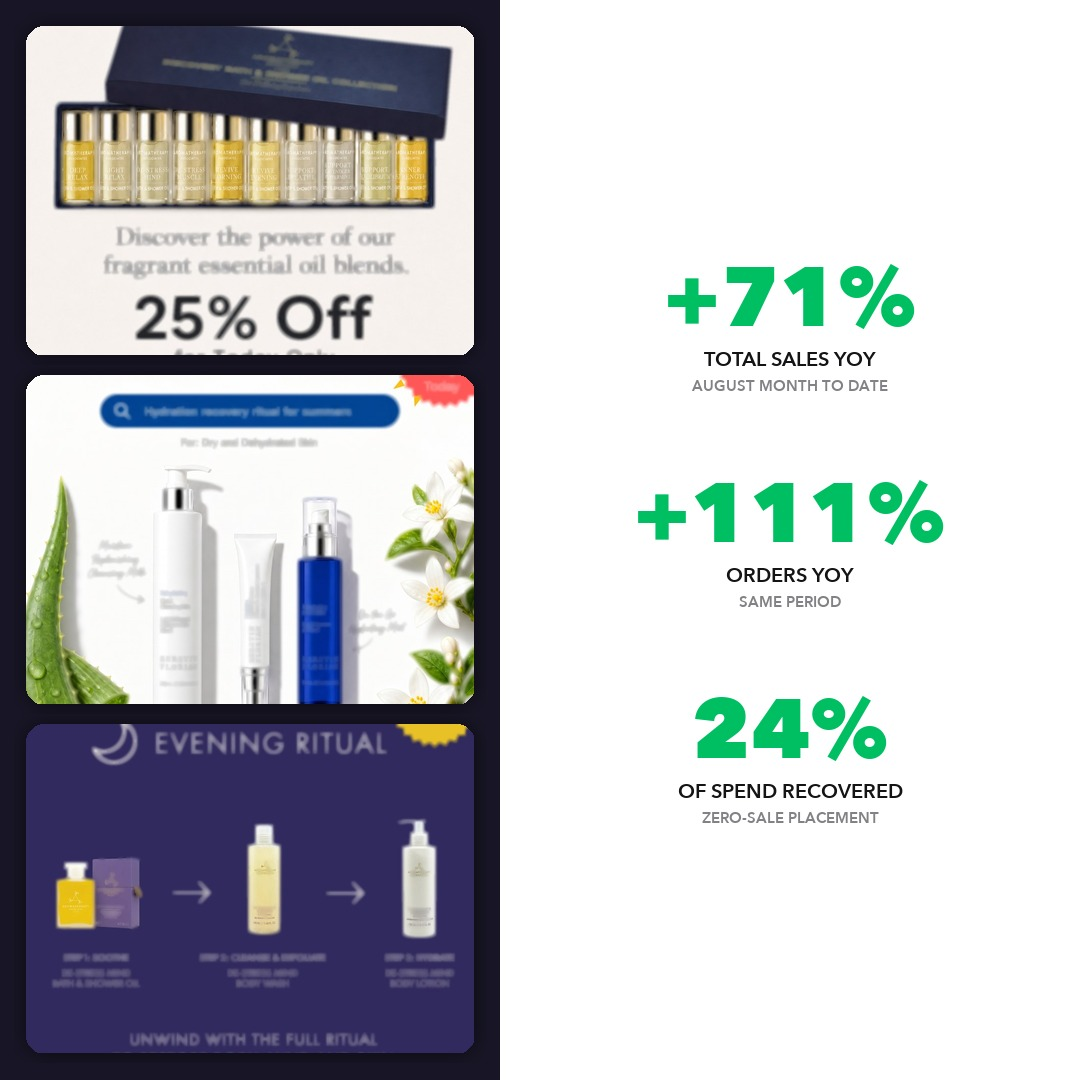
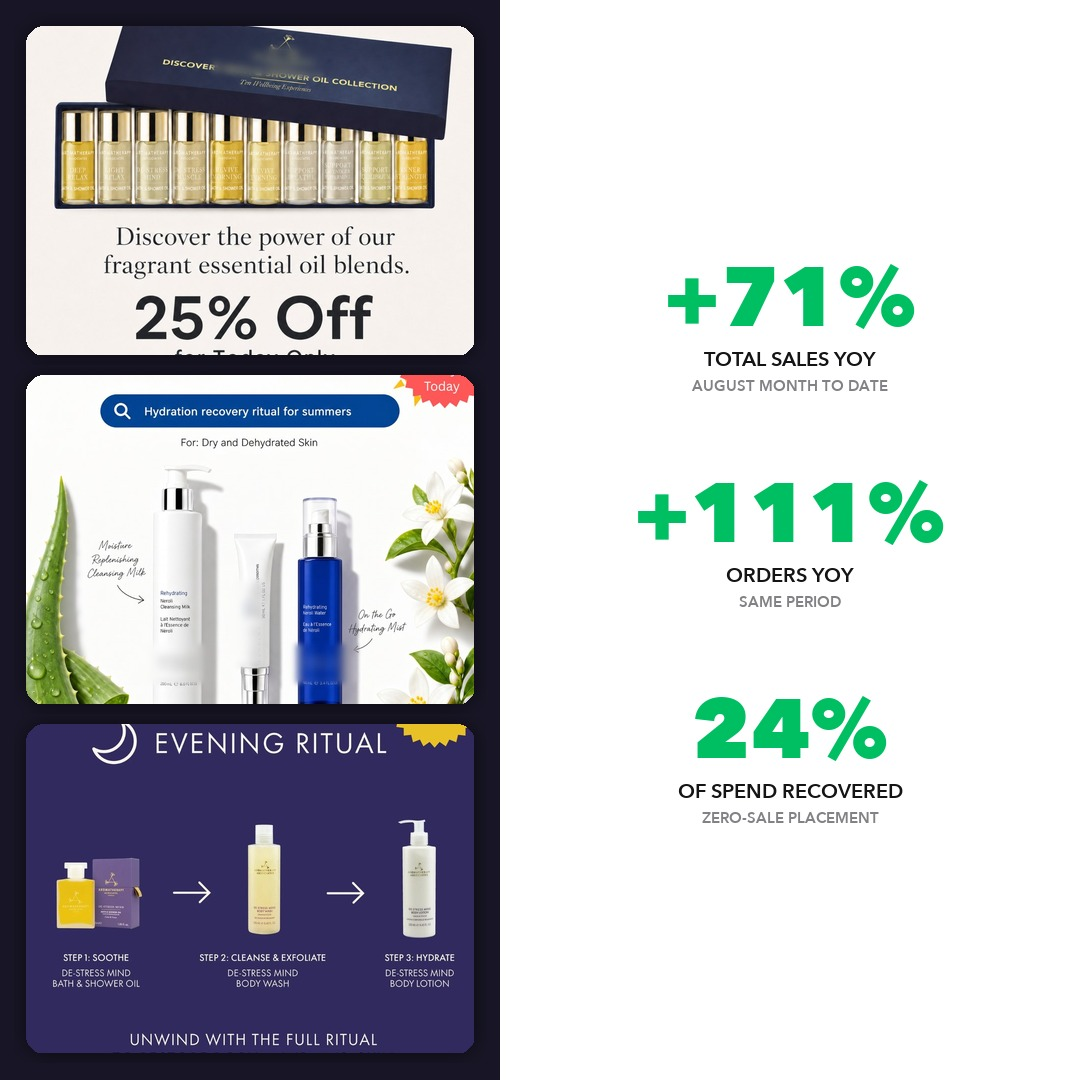
fix(case-studies): hide the brand name only, not every word in the ad
The last two passes obscured all lettering, which softened the headlines,
ingredient lists and offer copy — the parts that make these read as real ads.
Only the brand identifier needs to be unreadable.

Dropped the global text mask entirely. Now nine explicit regions across the six
creatives: the two header wordmarks are replaced with sampled background, and
seven product marks (three bottle labels, an eye-cream label, a carton wordmark,
a diffuser emboss, a gift-box lid) get a feathered blur, since they sit on
curved or textured surfaces where a flat fill would show.

Everything else stays sharp: "Lait Nettoyant à l'Essence de Néroli", the actives
list, "Discover the power of our fragrant essential oil blends", the 25% offer
badges, "Evening Ritual".

The first attempt at the bottle labels was ~100px high and left two of them
readable; verified at 6x zoom this time rather than at thumbnail size.

diff --git a/work/wellness-brands.html b/work/wellness-brands.html
@@ -227,7 +227,7 @@
       <p class="cs-hero-desc">Two premium wellness brands, run under one retainer. Both looked healthy. Click-through rates were strong, add-to-carts were climbing, clicks cost under a dollar. Underneath, about a quarter of the monthly budget was going to a placement that had never produced a single sale.</p>
     </div>
     <div class="cs-hero-img">
-      <img src="/assets/wellness-brands-cover.jpg?v=640d498c" alt="Premium wellness brands Meta ads placement audit case study" loading="eager">
+      <img src="/assets/wellness-brands-cover.jpg?v=40b04951" alt="Premium wellness brands Meta ads placement audit case study" loading="eager">
     </div>
   </div>
 </section>
@@ -293,12 +293,12 @@
     <h2>The creative</h2>
     <p>Both brands run designed statics built for a 55 to 65+ reader. Larger type, one clear offer, product and ritual rather than ingredient science. Client marks removed and label copy softened below, since both are active clients.</p>
     <div style="display:grid;grid-template-columns:repeat(3,1fr);gap:14px;margin-top:18px;">
-      <img src="/assets/cs-skincare-1.jpg?v=19a6932b" alt="Wellness brand hydration ritual static ad" loading="lazy" style="width:100%;border-radius:12px;display:block;">
-      <img src="/assets/cs-skincare-2.jpg?v=daf421fc" alt="Wellness brand corrective skincare static ad" loading="lazy" style="width:100%;border-radius:12px;display:block;">
-      <img src="/assets/cs-skincare-3.jpg?v=6484e996" alt="Wellness brand eye cream ingredient static ad" loading="lazy" style="width:100%;border-radius:12px;display:block;">
-      <img src="/assets/cs-aroma-1.jpg?v=5fb787a0" alt="Aromatherapy brand diffuser static ad" loading="lazy" style="width:100%;border-radius:12px;display:block;">
-      <img src="/assets/cs-aroma-2.jpg?v=72e17ac6" alt="Aromatherapy brand discovery collection static ad" loading="lazy" style="width:100%;border-radius:12px;display:block;">
-      <img src="/assets/cs-aroma-3.jpg?v=08d1d602" alt="Aromatherapy brand evening ritual static ad" loading="lazy" style="width:100%;border-radius:12px;display:block;">
+      <img src="/assets/cs-skincare-1.jpg?v=d4ee9826" alt="Wellness brand hydration ritual static ad" loading="lazy" style="width:100%;border-radius:12px;display:block;">
+      <img src="/assets/cs-skincare-2.jpg?v=cfba4484" alt="Wellness brand corrective skincare static ad" loading="lazy" style="width:100%;border-radius:12px;display:block;">
+      <img src="/assets/cs-skincare-3.jpg?v=425216e9" alt="Wellness brand eye cream ingredient static ad" loading="lazy" style="width:100%;border-radius:12px;display:block;">
+      <img src="/assets/cs-aroma-1.jpg?v=20bd609e" alt="Aromatherapy brand diffuser static ad" loading="lazy" style="width:100%;border-radius:12px;display:block;">
+      <img src="/assets/cs-aroma-2.jpg?v=352d9453" alt="Aromatherapy brand discovery collection static ad" loading="lazy" style="width:100%;border-radius:12px;display:block;">
+      <img src="/assets/cs-aroma-3.jpg?v=b7271f63" alt="Aromatherapy brand evening ritual static ad" loading="lazy" style="width:100%;border-radius:12px;display:block;">
     </div>
   </div>
 

diff --git a/case-studies.html b/case-studies.html
@@ -358,7 +358,7 @@
 
   <a href="/work/wellness-brands" class="cs-card" data-cat="dtc">
     <div class="cs-card-img">
-      <img src="/assets/wellness-brands-cover.jpg?v=640d498c" alt="Premium wellness brands Meta placement audit case study" loading="lazy">
+      <img src="/assets/wellness-brands-cover.jpg?v=40b04951" alt="Premium wellness brands Meta placement audit case study" loading="lazy">
     </div>
     <div class="cs-card-body">
       <div class="cs-card-tag"><span class="tag-dtc">eComm / Wellness</span><span class="tag-dtc" style="background:rgba(234,88,12,0.05);">Meta</span></div>
